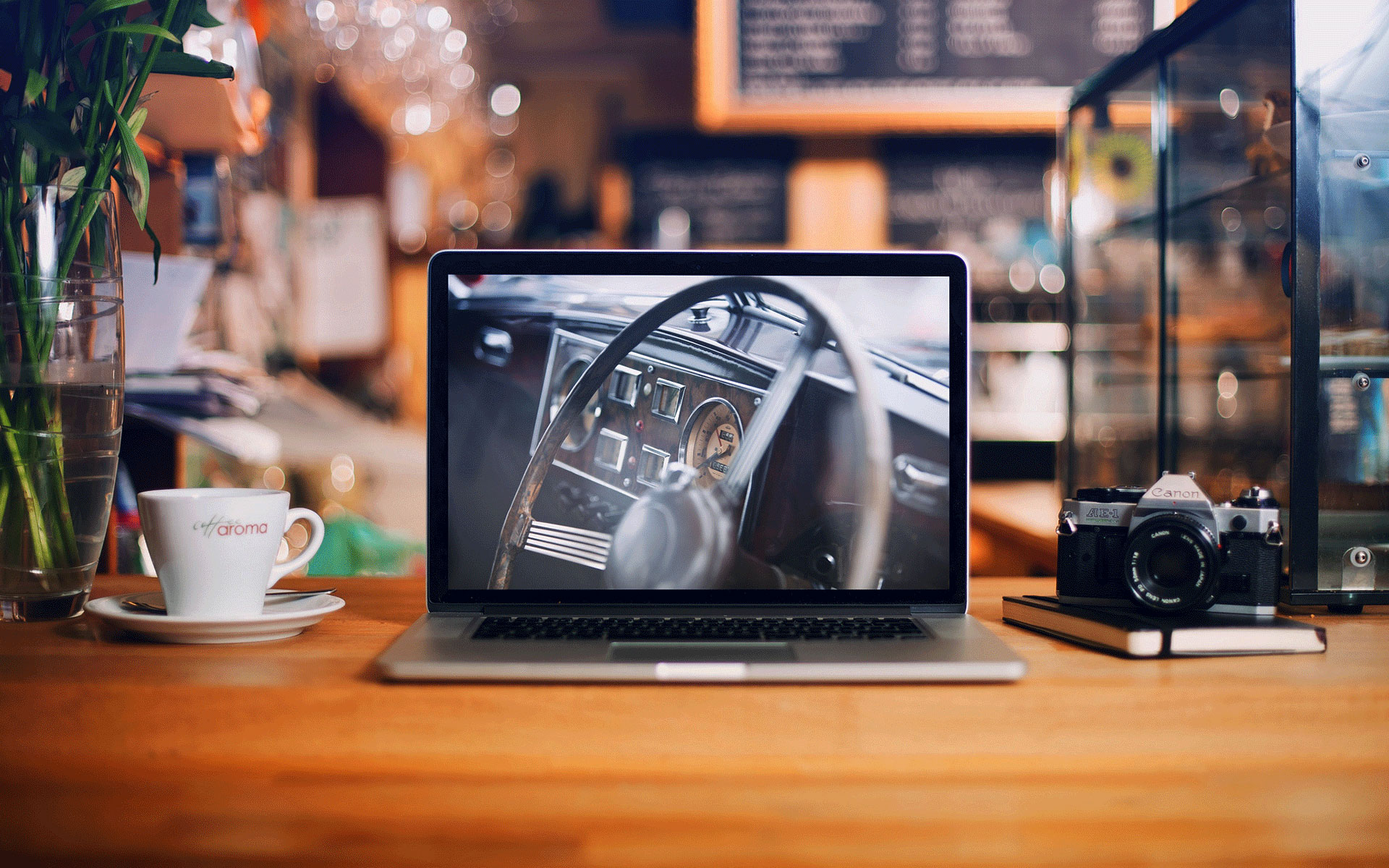
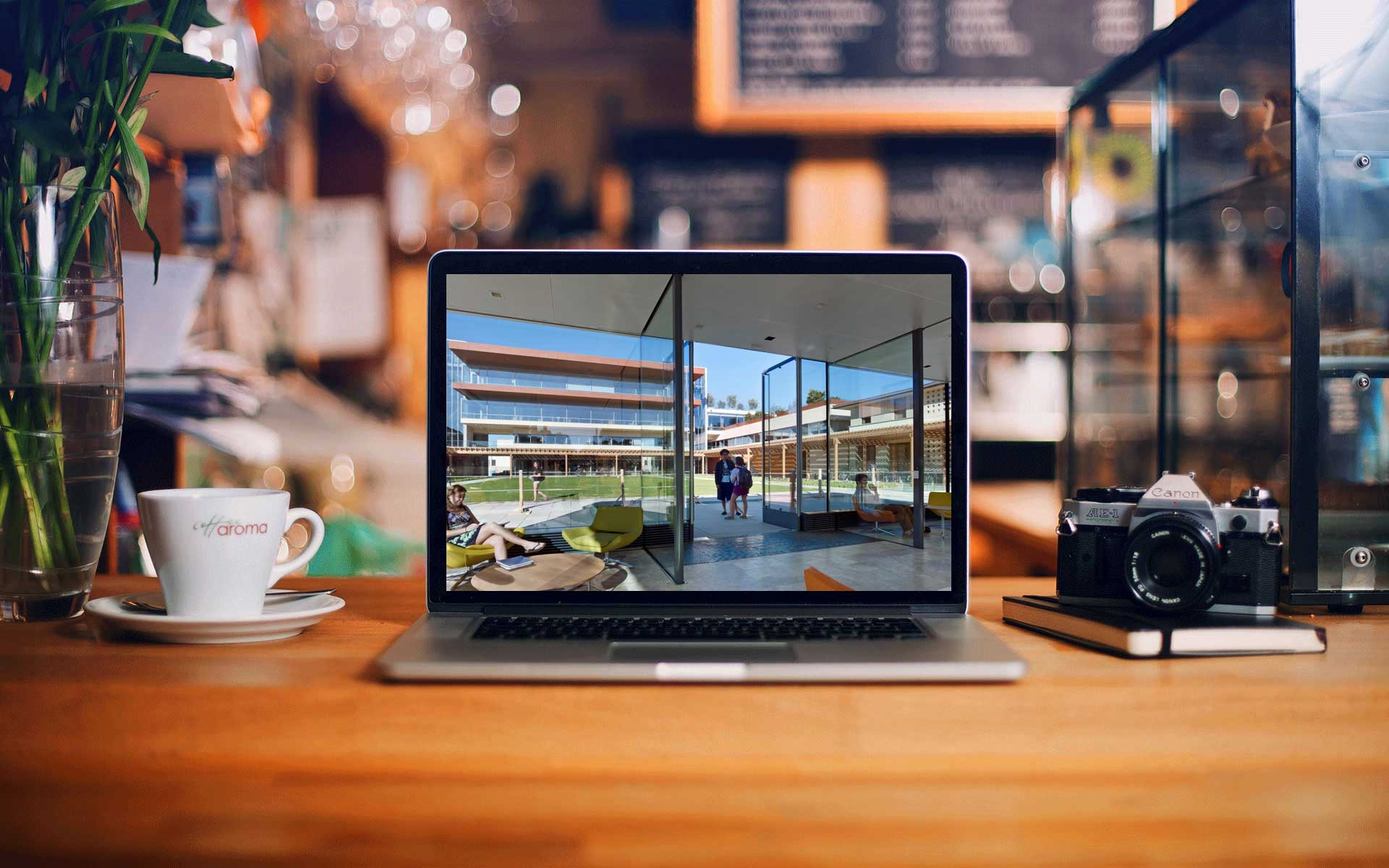
changed some background stuff so it can be changed per page. Also edited background photo

Changed region(s): [[0.3125, 0.3083, 0.6875, 0.6783], [0.2188, 0.6167, 0.2812, 0.6783]]

diff --git a/resources/views/master.blade.php b/resources/views/master.blade.php
@@ -66,7 +66,89 @@
    	<script type="text/javascript" src="{{ URL::asset('/assets/js/bootstrap.min.js') }}"></script>
    	<script type="text/javascript" src="{{ URL::asset('/assets/js/countdown.js') }}"></script>
     <script type="text/javascript" src="{{ URL::asset('/assets/js/jquery.vegas.min.js') }}"></script>
-   	<script type="text/javascript" src="{{ URL::asset('/assets/js/scripts.js') }}"></script>
+    <script>
+    (function($){
+
+        // Preloader
+        $(window).load(function() {
+            $('#status').fadeOut();
+            $('#preloader').delay(350).fadeOut('slow');
+            $('body').delay(350).css({'overflow':'visible'});
+        });
+
+      $(document).ready(function() {
+
+        // Image background
+        @yield('background')
+
+        var countdown =  $('.countdown-time');
+
+        createTimeCicles();
+
+        $(window).on('resize', windowSize);
+
+        function windowSize(){
+          countdown.TimeCircles().destroy();
+            createTimeCicles();
+          countdown.on('webkitAnimationEnd mozAnimationEnd oAnimationEnd animationEnd', function() {
+                countdown.removeClass('animated bounceIn');
+              });
+        }
+
+        // TimeCicles - Create and Options
+        function createTimeCicles() {
+          countdown.addClass('animated bounceIn');
+          countdown.TimeCircles({
+            bg_width: 1,
+              fg_width: 0.04,
+            circle_bg_color: 'transparent',
+            time: {
+                    Days: {color: '#14c998'}
+              ,	   Hours: {color: '#14c998'}
+              ,	 Minutes: {color: '#14c998'}
+              ,	 Seconds: {color: '#14c998'}
+              ,	 Seconds: {color: '#14c998'}
+              }
+          });
+          countdown.on('webkitAnimationEnd mozAnimationEnd oAnimationEnd animationEnd', function() {
+                countdown.removeClass('animated bounceIn');
+              });
+        }
+
+        // Open modal window on click
+        $('.more-links a').on('click', function(e) {
+          var mainInner = $('.overlay'),
+            modal = $('#' + $(this).attr('data-modal'));
+
+          mainInner.animate({opacity: 0}, 400, function(){
+            $('html,body').scrollTop(0);
+            modal.addClass('active').fadeIn(400);
+            countdown.TimeCircles().destroy();
+          });
+          e.preventDefault();
+
+          $('.modal-close').on('click', function(e) {
+            modal.removeClass('active').fadeOut(400, function(){
+              mainInner.animate({opacity: 1}, 400);
+                  createTimeCicles();
+              countdown.on('webkitAnimationEnd mozAnimationEnd oAnimationEnd animationEnd', function() {
+                    countdown.removeClass('animated bounceIn');
+                  });
+            });
+            e.preventDefault();
+          });
+        });
+
+        // Tooltips
+        $('.more-links a, .social a').tooltip();
+
+        $('.more-links a, .social a').on('click', function () {
+          $(this).tooltip('hide')
+        });
+
+      });
+    })(jQuery);
+    </script>
     <script>
       (function(i,s,o,g,r,a,m){i['GoogleAnalyticsObject']=r;i[r]=i[r]||function(){
       (i[r].q=i[r].q||[]).push(arguments)},i[r].l=1*new Date();a=s.createElement(o),

diff --git a/resources/views/login.blade.php b/resources/views/login.blade.php
@@ -37,15 +37,19 @@
 @stop
 
 @if(Session::has('username'))
+
   @section('h1-title')
     Welcome {{ Session::get('username') }}
   @stop
+
 @else
+
   @section('h1-title', 'Join Claremont Rise.')
+
 @endif
 
 @section('slogan')
-    Contribute events, deadlines, or event an article.
+    Contribute events, deadlines, or even an article.
 @stop
 
 @section('button')
@@ -120,4 +124,10 @@
     </div>
   </div>
 </div>
+@stop
+
+@section('background')
+  $.vegas({
+      src:'/assets/images/computer_notebook.jpg'
+  });
 @stop

diff --git a/app/Http/routes.php b/app/Http/routes.php
@@ -28,7 +28,6 @@ Route::post('/login', function() {
   $data = Input::all();
   $password = Hash::make('secret');
   $user = App\User::create(['name' => $data['name'], 'college' => $data['college'], 'username' => $data['username'], 'email' => $data['email'], 'password' => $password]);
-  echo $user;
   $user->save();
   Session::flash('username', $data['username']);
   return view('login');

diff --git a/resources/views/home.blade.php b/resources/views/home.blade.php
@@ -133,3 +133,9 @@
   </div>
 </div>
 @stop
+
+@section('background')
+  $.vegas({
+      src:'/assets/images/bg1.jpg'
+  });
+@stop
